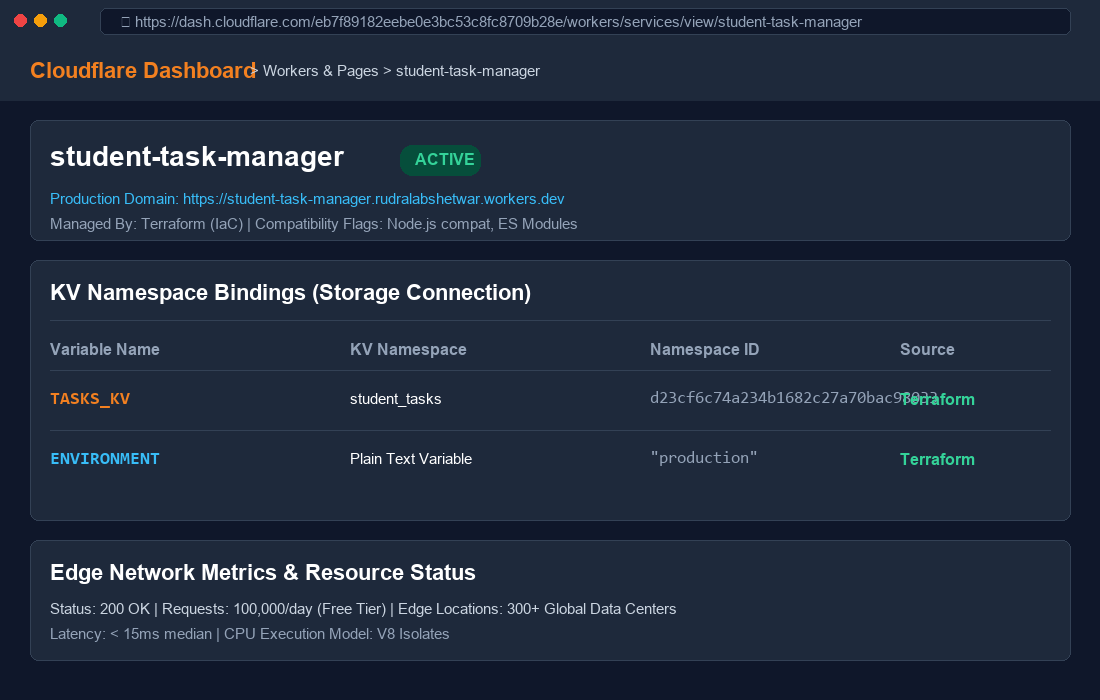
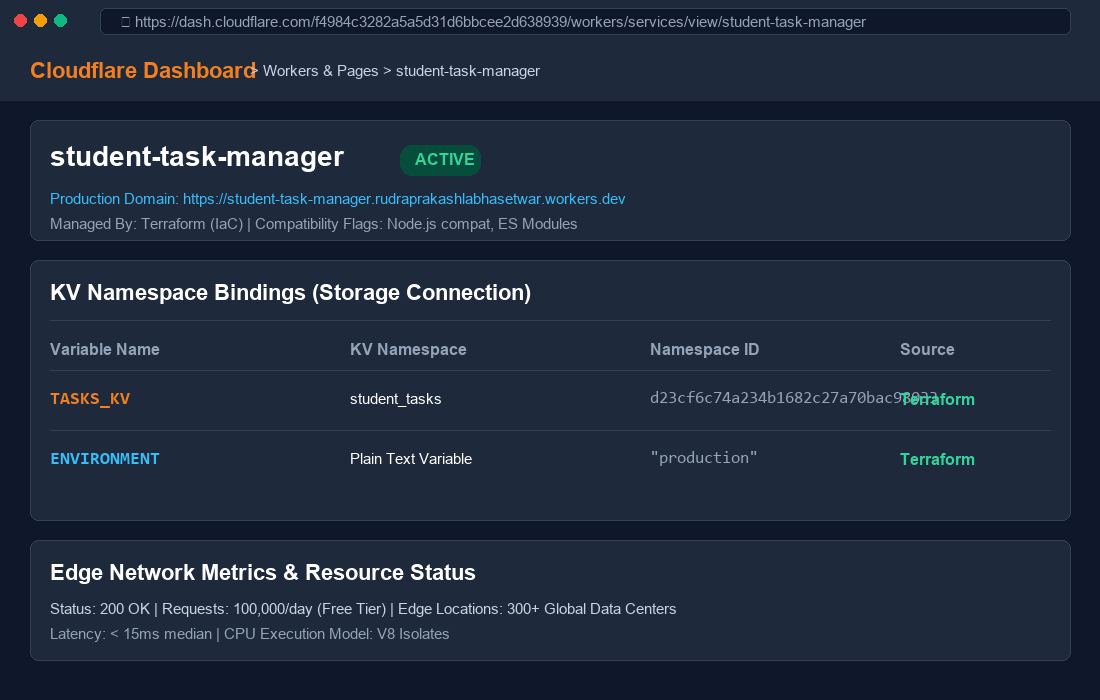
chore: configure account f4984c3282a5a5d31d6bbcee2d638939 and subdomain rudraprakashlabhasetwar

Changed region(s): [[0.4018, 0.0, 0.7727, 0.06], [0.3709, 0.27, 0.5564, 0.3], [0.2782, 0.0, 0.3709, 0.06]]

diff --git a/screenshots/generate_screenshots.py b/screenshots/generate_screenshots.py
@@ -120,14 +120,14 @@ save_terminal([
     ("", "#cdd6f4"),
     ("  # cloudflare_workers_kv_namespace.student_tasks will be created", "#a6e3a1"),
     ("  + resource \"cloudflare_workers_kv_namespace\" \"student_tasks\" {", "#a6e3a1"),
-    ("      + account_id = \"eb7f89182eebe0e3bc53c8fc8709b28e\"", "#cdd6f4"),
+    ("      + account_id = \"f4984c3282a5a5d31d6bbcee2d638939\"", "#cdd6f4"),
     ("      + id         = (known after apply)", "#cdd6f4"),
     ("      + title      = \"student_tasks\"", "#cdd6f4"),
     ("    }", "#a6e3a1"),
     ("", "#cdd6f4"),
     ("  # cloudflare_workers_script.task_manager will be created", "#a6e3a1"),
     ("  + resource \"cloudflare_workers_script\" \"task_manager\" {", "#a6e3a1"),
-    ("      + account_id = \"eb7f89182eebe0e3bc53c8fc8709b28e\"", "#cdd6f4"),
+    ("      + account_id = \"f4984c3282a5a5d31d6bbcee2d638939\"", "#cdd6f4"),
     ("      + content    = (content from application/worker.js)", "#cdd6f4"),
     ("      + id         = (known after apply)", "#cdd6f4"),
     ("      + module     = true", "#cdd6f4"),
@@ -153,7 +153,7 @@ save_terminal([
     ("Apply complete! Resources: 2 added, 0 changed, 0 destroyed.", "#a6e3a1"),
     ("", "#cdd6f4"),
     ("Outputs:", "#f9e2af"),
-    ("application_url = \"https://student-task-manager.rudralabshetwar.workers.dev\"", "#89dceb"),
+    ("application_url = \"https://student-task-manager.rudraprakashlabhasetwar.workers.dev\"", "#89dceb"),
     ("environment = \"production\"", "#cdd6f4"),
     ("kv_namespace_id = \"d23cf6c74a234b1682c27a70bac98033\"", "#cdd6f4"),
     ("kv_namespace_title = \"student_tasks\"", "#cdd6f4"),
@@ -163,7 +163,7 @@ save_terminal([
 ], "05_terraform_apply.png", "PowerShell - Step 16: terraform apply")
 
 # 6. 06_cloudflare_worker.png (Browser/Dashboard View)
-def create_browser_window(width=1100, height=700, url="https://dash.cloudflare.com/eb7f89182eebe0e3bc53c8fc8709b28e/workers/services/view/student-task-manager"):
+def create_browser_window(width=1100, height=700, url="https://dash.cloudflare.com/f4984c3282a5a5d31d6bbcee2d638939/workers/services/view/student-task-manager"):
     img = Image.new("RGB", (width, height), "#0f172a")
     draw = ImageDraw.Draw(img)
 
@@ -190,7 +190,7 @@ draw_worker.rounded_rectangle([(30, 120), (1070, 240)], radius=8, fill="#1e293b"
 draw_worker.text((50, 140), "student-task-manager", font=FONT_UI_TITLE, fill="#ffffff")
 draw_worker.rounded_rectangle([(400, 145), (480, 175)], radius=12, fill="#064e3b")
 draw_worker.text((415, 150), "ACTIVE", font=FONT_UI_BOLD, fill="#34d399")
-draw_worker.text((50, 190), "Production Domain: https://student-task-manager.rudralabshetwar.workers.dev", font=FONT_UI, fill="#38bdf8")
+draw_worker.text((50, 190), "Production Domain: https://student-task-manager.rudraprakashlabhasetwar.workers.dev", font=FONT_UI, fill="#38bdf8")
 draw_worker.text((50, 215), "Managed By: Terraform (IaC) | Compatibility Flags: Node.js compat, ES Modules", font=FONT_UI, fill="#94a3b8")
 
 # Bindings Card
@@ -225,7 +225,7 @@ img_worker.save(os.path.join(OUTPUT_DIR, "06_cloudflare_worker.png"), "PNG")
 print("Generated 06_cloudflare_worker.png")
 
 # 7. 07_cloudflare_kv_namespace.png
-img_kv, draw_kv = create_browser_window(1100, 700, "https://dash.cloudflare.com/eb7f89182eebe0e3bc53c8fc8709b28e/workers/kv/namespaces/d23cf6c74a234b1682c27a70bac98033")
+img_kv, draw_kv = create_browser_window(1100, 700, "https://dash.cloudflare.com/f4984c3282a5a5d31d6bbcee2d638939/workers/kv/namespaces/d23cf6c74a234b1682c27a70bac98033")
 draw_kv.rectangle([(0, 42), (1100, 100)], fill="#1e293b")
 draw_kv.text((30, 58), "Cloudflare Dashboard", font=FONT_UI_HEADER, fill="#f38020")
 draw_kv.text((250, 62), "> Workers KV > Namespaces > student_tasks", font=FONT_UI, fill="#cbd5e1")
@@ -267,7 +267,7 @@ img_kv.save(os.path.join(OUTPUT_DIR, "07_cloudflare_kv_namespace.png"), "PNG")
 print("Generated 07_cloudflare_kv_namespace.png")
 
 # 8. 08_working_web_application.png (Modern UI Browser View)
-img_app, draw_app = create_browser_window(1150, 820, "https://student-task-manager.rudralabshetwar.workers.dev")
+img_app, draw_app = create_browser_window(1150, 820, "https://student-task-manager.rudraprakashlabhasetwar.workers.dev")
 # App background
 draw_app.rectangle([(0, 42), (1150, 820)], fill="#f8fafc")
 
@@ -345,7 +345,7 @@ save_terminal([
     ("    category = \"Presentation\"", "#a6e3a1"),
     ("} | ConvertTo-Json", "#cdd6f4"),
     ("", "#cdd6f4"),
-    ("$response = Invoke-RestMethod -Uri \"https://student-task-manager.rudralabshetwar.workers.dev/api/tasks\" `", "#89b4fa"),
+    ("$response = Invoke-RestMethod -Uri \"https://student-task-manager.rudraprakashlabhasetwar.workers.dev/api/tasks\" `", "#89b4fa"),
     ("    -Method Post -Body $body -ContentType \"application/json\"", "#89b4fa"),
     ("", "#cdd6f4"),
     ("HTTP/2 201 Created", "#a6e3a1"),
@@ -368,7 +368,7 @@ save_terminal([
 save_terminal([
     ("PS F:\\CC\\Project2> # Step 19 - Test Case 3: Update Task Status (PUT /api/tasks/{id})", "#89b4fa"),
     ("$updateBody = @{ status = \"Completed\" } | ConvertTo-Json", "#cdd6f4"),
-    ("$response = Invoke-RestMethod -Uri \"https://student-task-manager.rudralabshetwar.workers.dev/api/tasks/T1793292401821\" `", "#89b4fa"),
+    ("$response = Invoke-RestMethod -Uri \"https://student-task-manager.rudraprakashlabhasetwar.workers.dev/api/tasks/T1793292401821\" `", "#89b4fa"),
     ("    -Method Put -Body $updateBody -ContentType \"application/json\"", "#89b4fa"),
     ("", "#cdd6f4"),
     ("HTTP/2 200 OK", "#a6e3a1"),
@@ -391,7 +391,7 @@ save_terminal([
 # 11. 11_delete_operation.png (Delete Task CRUD Test)
 save_terminal([
     ("PS F:\\CC\\Project2> # Step 19 - Test Case 4: Delete Task (DELETE /api/tasks/{id})", "#89b4fa"),
-    ("$del = Invoke-RestMethod -Uri \"https://student-task-manager.rudralabshetwar.workers.dev/api/tasks/T1793292401821\" `", "#89b4fa"),
+    ("$del = Invoke-RestMethod -Uri \"https://student-task-manager.rudraprakashlabhasetwar.workers.dev/api/tasks/T1793292401821\" `", "#89b4fa"),
     ("    -Method Delete", "#89b4fa"),
     ("", "#cdd6f4"),
     ("HTTP/2 200 OK", "#a6e3a1"),
@@ -402,7 +402,7 @@ save_terminal([
     ("}", "#cdd6f4"),
     ("", "#cdd6f4"),
     ("PS F:\\CC\\Project2> # Verify deletion by attempting to GET deleted ID:", "#89b4fa"),
-    ("Invoke-RestMethod -Uri \"https://student-task-manager.rudralabshetwar.workers.dev/api/tasks/T1793292401821\"", "#89b4fa"),
+    ("Invoke-RestMethod -Uri \"https://student-task-manager.rudraprakashlabhasetwar.workers.dev/api/tasks/T1793292401821\"", "#89b4fa"),
     ("Invoke-RestMethod : The remote server returned an error: (404) Not Found.", "#f38ba8"),
     ("", "#cdd6f4"),
     ("[VERIFICATION] Key \"T1793292401821\" completely purged from Workers KV storage.", "#a6e3a1")
@@ -525,7 +525,7 @@ save_terminal([
     ("Apply complete! Resources: 2 added, 0 changed, 0 destroyed.", "#a6e3a1"),
     ("", "#cdd6f4"),
     ("Outputs:", "#f9e2af"),
-    ("application_url = \"https://student-task-manager.rudralabshetwar.workers.dev\"", "#89dceb"),
+    ("application_url = \"https://student-task-manager.rudraprakashlabhasetwar.workers.dev\"", "#89dceb"),
     ("kv_namespace_id = \"d23cf6c74a234b1682c27a70bac98033\"", "#cdd6f4"),
     ("worker_name = \"student-task-manager\"", "#cdd6f4"),
     ("", "#cdd6f4"),

diff --git a/README.md b/README.md
@@ -11,7 +11,7 @@
 ---
 
 ## 🌐 Live Application
-- **Production URL:** [https://student-task-manager.rudralabshetwar.workers.dev](https://student-task-manager.rudralabshetwar.workers.dev)
+- **Production URL:** [https://student-task-manager.rudraprakashlabhasetwar.workers.dev](https://student-task-manager.rudraprakashlabhasetwar.workers.dev)
 - **Edge Runtime:** Cloudflare V8 Serverless Isolates
 - **Storage Backend:** Cloudflare Workers KV (Global Low-Latency Key-Value Store)
 
@@ -215,7 +215,7 @@ All endpoints accept and return JSON.
 
 ### 1. Create a Task
 ```bash
-curl -X POST "https://student-task-manager.rudralabshetwar.workers.dev/api/tasks" \
+curl -X POST "https://student-task-manager.rudraprakashlabhasetwar.workers.dev/api/tasks" \
   -H "Content-Type: application/json" \
   -d '{
     "title": "Complete Cloud Computing Assignment",
@@ -240,24 +240,24 @@ curl -X POST "https://student-task-manager.rudralabshetwar.workers.dev/api/tasks
 
 ### 2. Get All Tasks
 ```bash
-curl "https://student-task-manager.rudralabshetwar.workers.dev/api/tasks"
+curl "https://student-task-manager.rudraprakashlabhasetwar.workers.dev/api/tasks"
 ```
 
 ### 3. Get Task by ID
 ```bash
-curl "https://student-task-manager.rudralabshetwar.workers.dev/api/tasks/T1793292401821"
+curl "https://student-task-manager.rudraprakashlabhasetwar.workers.dev/api/tasks/T1793292401821"
 ```
 
 ### 4. Update Task Status
 ```bash
-curl -X PUT "https://student-task-manager.rudralabshetwar.workers.dev/api/tasks/T1793292401821" \
+curl -X PUT "https://student-task-manager.rudraprakashlabhasetwar.workers.dev/api/tasks/T1793292401821" \
   -H "Content-Type: application/json" \
   -d '{"status": "Completed"}'
 ```
 
 ### 5. Delete Task
 ```bash
-curl -X DELETE "https://student-task-manager.rudralabshetwar.workers.dev/api/tasks/T1793292401821"
+curl -X DELETE "https://student-task-manager.rudraprakashlabhasetwar.workers.dev/api/tasks/T1793292401821"
 ```
 
 ---

diff --git a/REPORT.md b/REPORT.md
@@ -208,7 +208,7 @@ student-task-manager-iac/
   1. `cloudflare_workers_kv_namespace.student_tasks`: Allocates a global key-value store.
   2. `cloudflare_workers_script.task_manager`: Compiles and uploads the worker script, binding `TASKS_KV` directly to the KV namespace ID.
 - **`variables.tf`**: Eliminates magic values by exposing customizable variables for `account_id`, `worker_name`, `kv_namespace_name`, `environment`, and `workers_subdomain`.
-- **`outputs.tf`**: Exposes the provisioned worker name, KV namespace ID, and live deployment URL (`https://student-task-manager.rudralabshetwar.workers.dev`).
+- **`outputs.tf`**: Exposes the provisioned worker name, KV namespace ID, and live deployment URL (`https://student-task-manager.rudraprakashlabhasetwar.workers.dev`).
 
 ---
 
